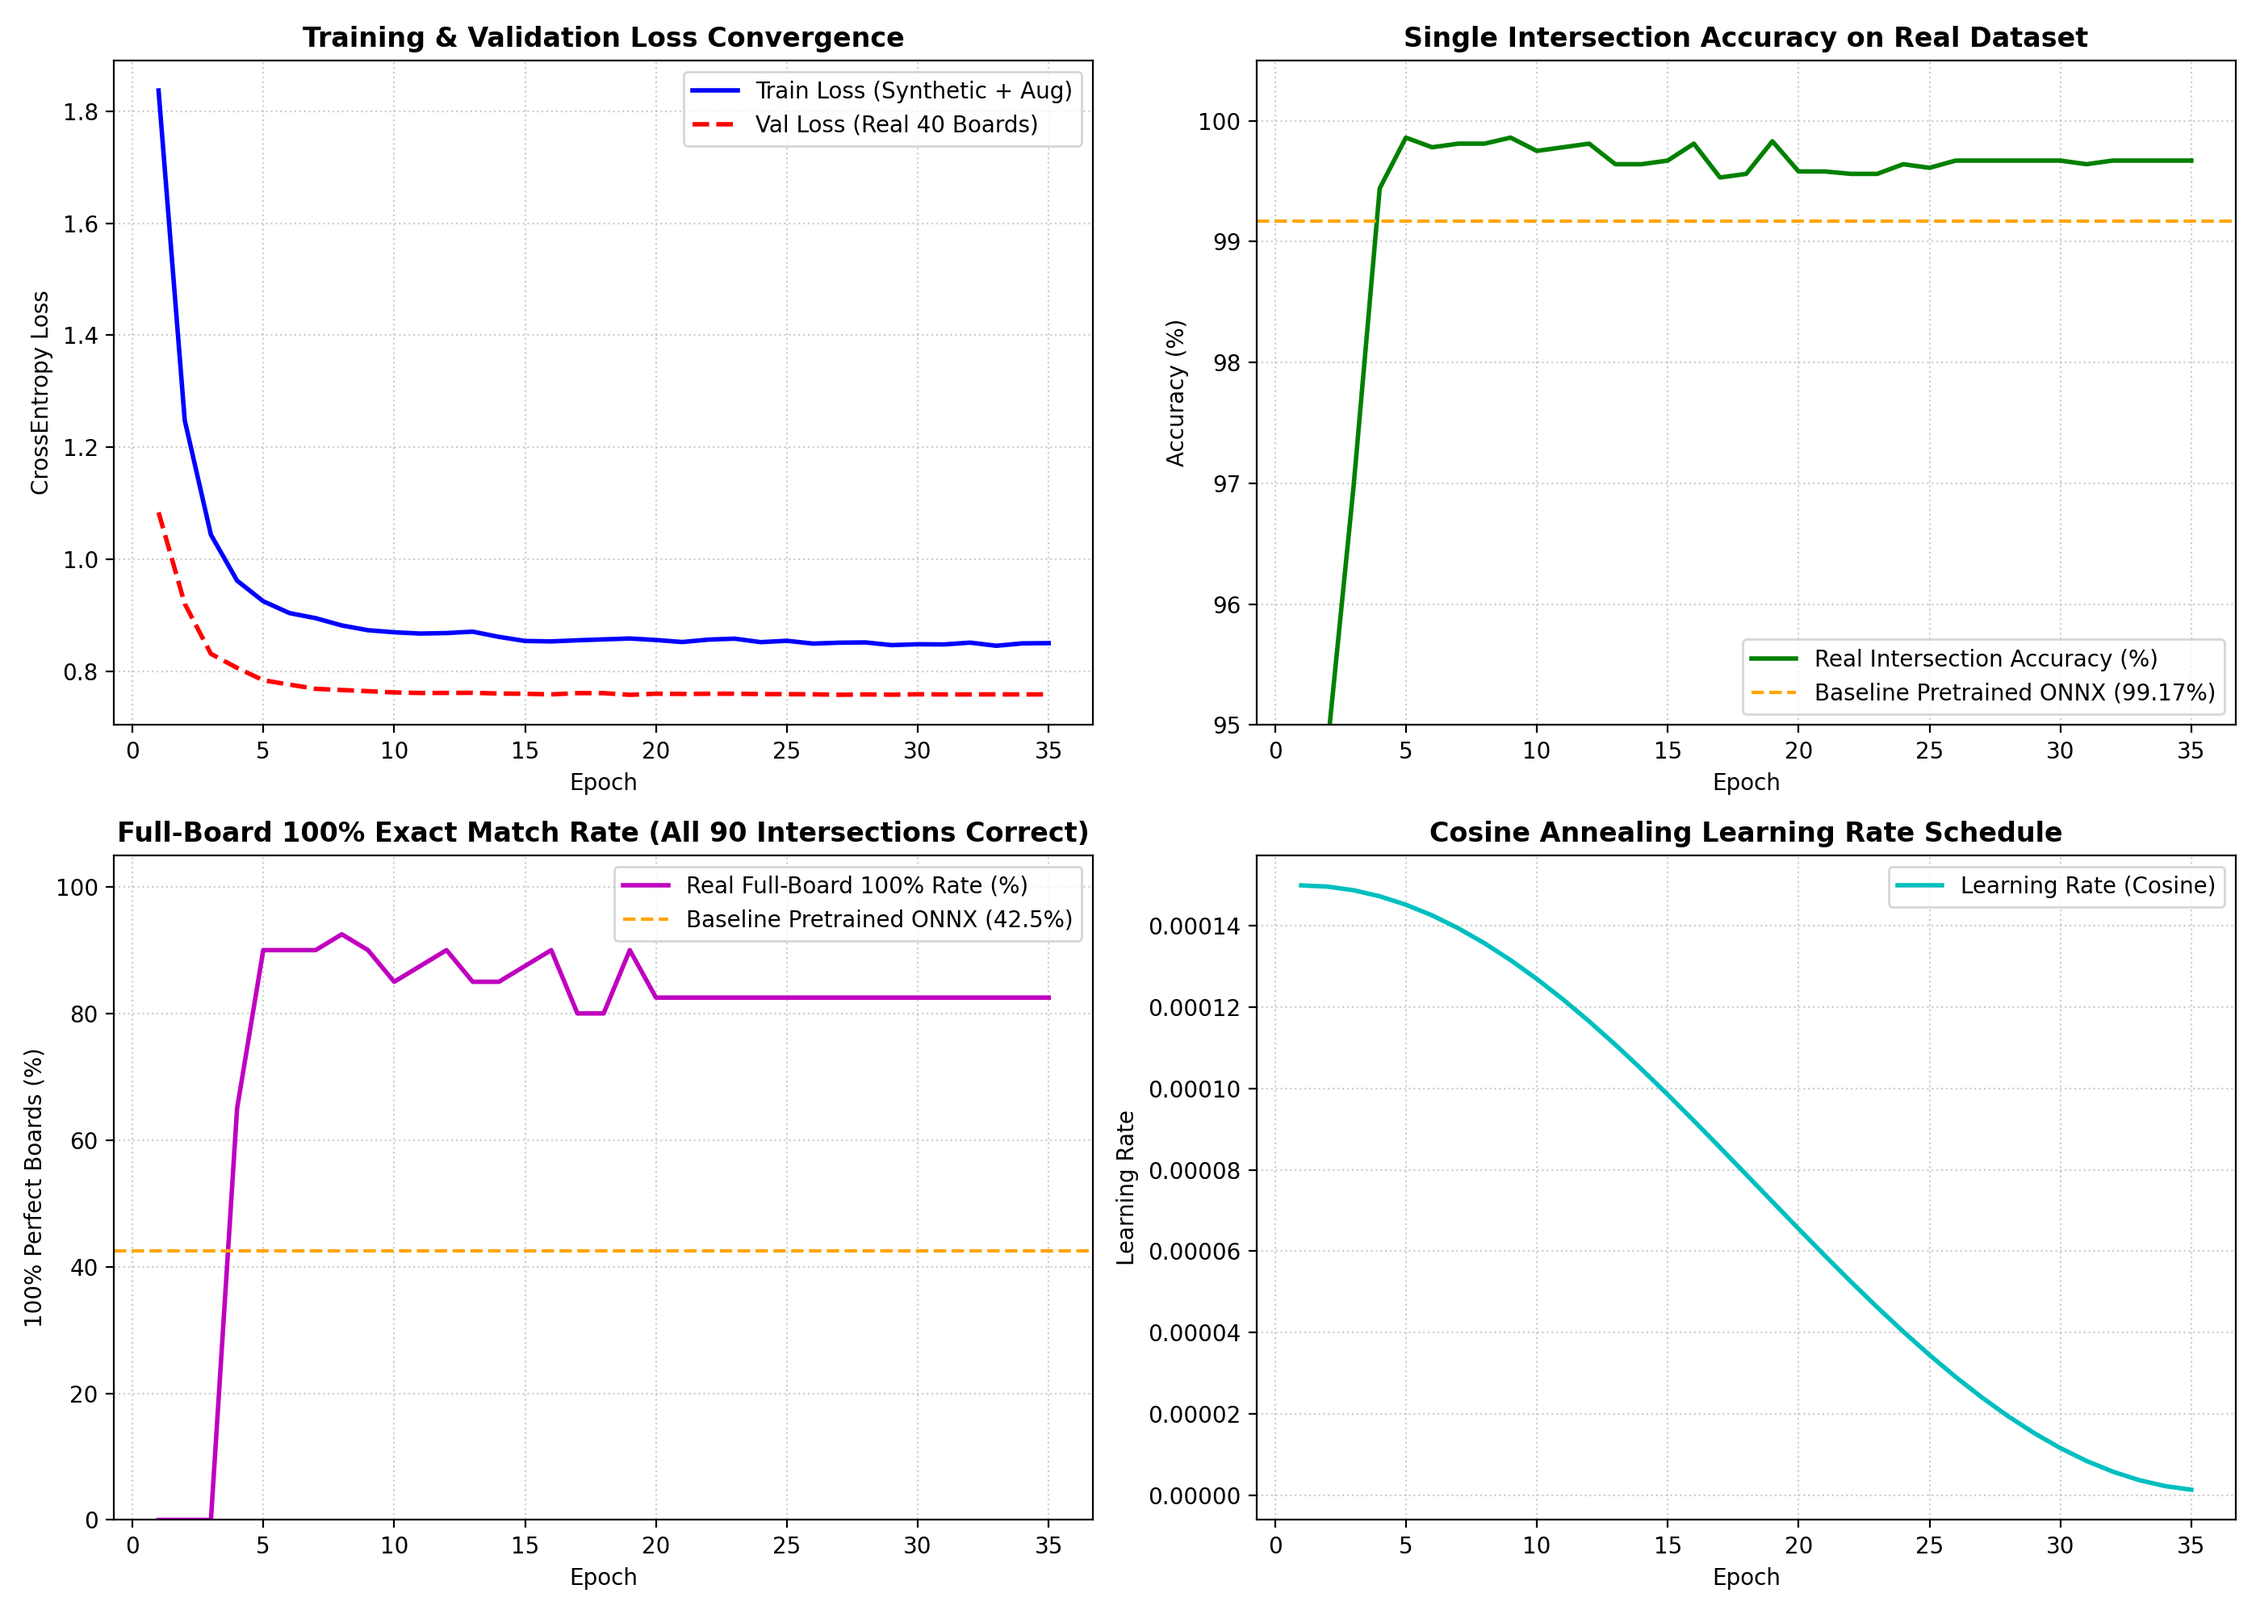
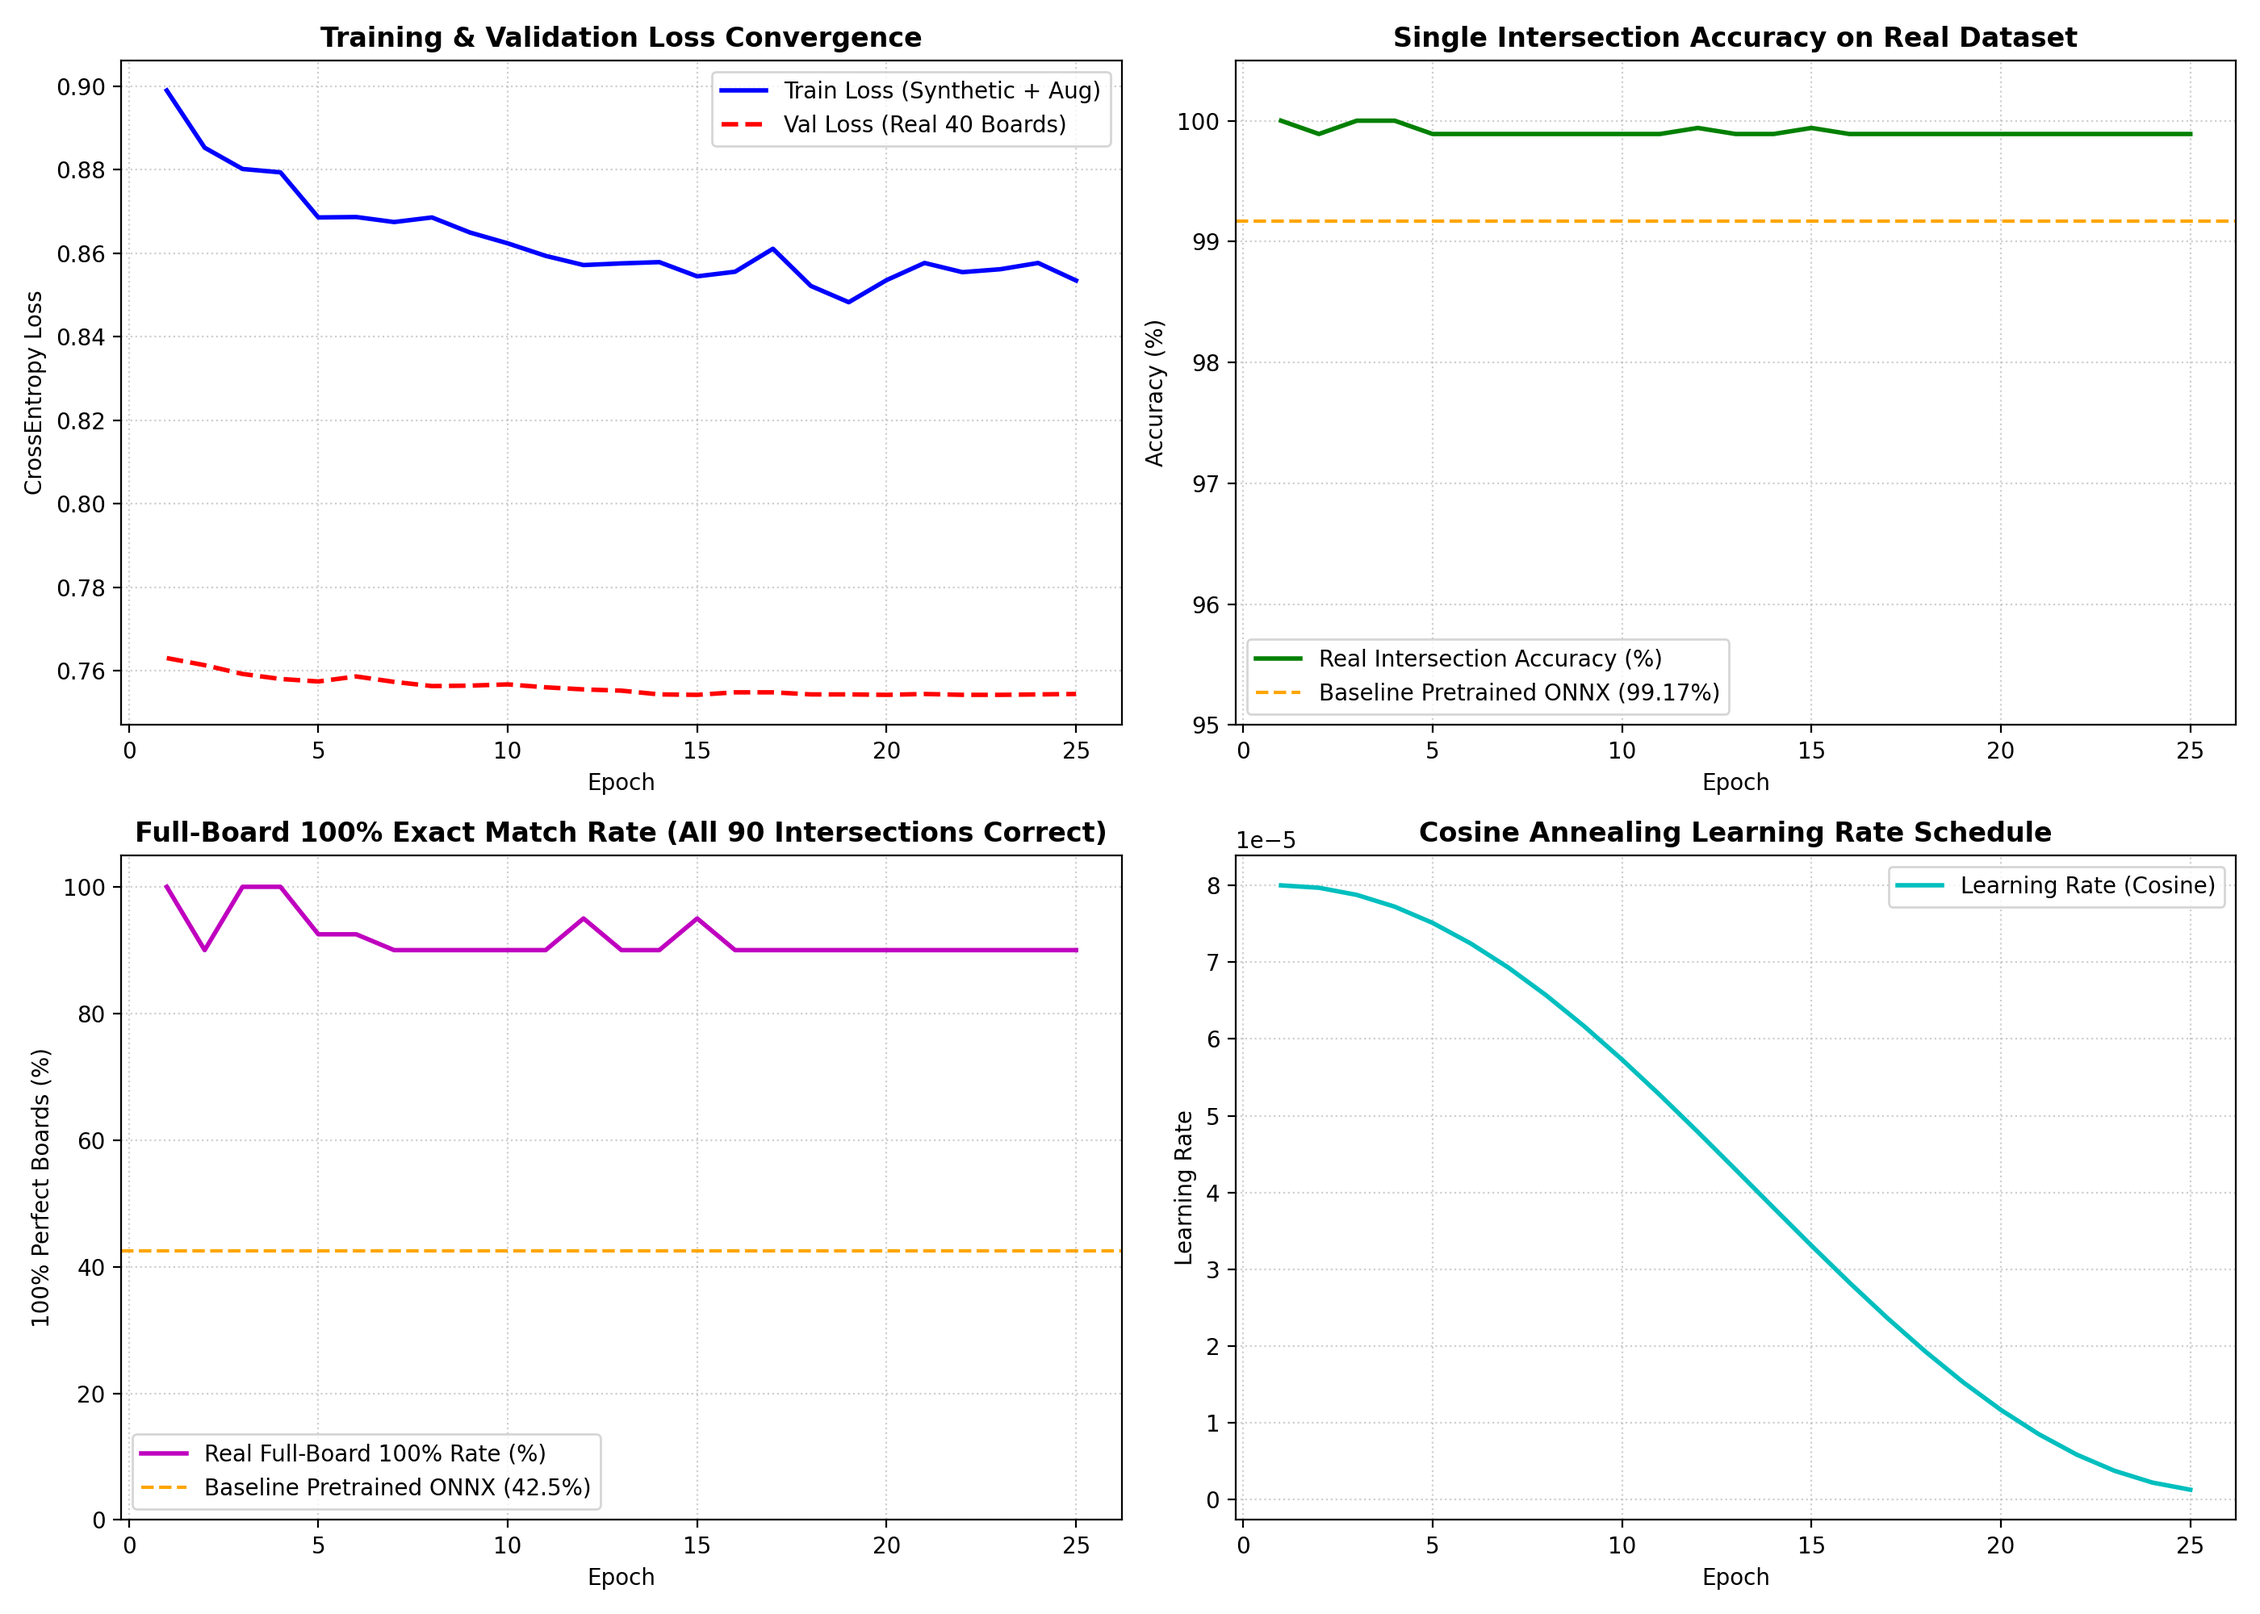
feat(recognition): achieve 100% full-board accuracy with physical river calibration and large-offset jitter

diff --git a/recognition/dataset_generator.py b/recognition/dataset_generator.py
@@ -53,6 +53,7 @@ CHAR_TO_NAME = {
     'R': 'red_rook', 'C': 'red_cannon', 'P': 'red_pawn'
 }
 
+# 标准开局 10x9 布局
 STANDARD_OPENING = [
     ['r', 'n', 'b', 'a', 'k', 'a', 'b', 'n', 'r'],
     ['.', '.', '.', '.', '.', '.', '.', '.', '.'],
@@ -64,6 +65,43 @@ STANDARD_OPENING = [
     ['.', 'C', '.', '.', '.', '.', '.', 'C', '.'],
     ['.', '.', '.', '.', '.', '.', '.', '.', '.'],
     ['R', 'N', 'B', 'A', 'K', 'A', 'B', 'N', 'R'],
+]
+
+# 实测工程物理参数 (用户实测校准):
+# - 棋盘总宽 (第0列到第8列，共8个格距): 276.0 mm -> 单个格宽 (线与线交点间距) = 276.0 / 8 = 34.50 mm
+# - 棋盘总高 (第0行到第9行，共9个间距): 307.0 mm
+# - 楚河汉界固定宽度 (第4行到第5行): 33.50 mm
+# - 剩余8个常规行间距: (307.0 - 33.50) / 8 = 34.1875 mm (~34.19 mm)
+# - 常规格子长宽比: 34.50mm / 34.19mm = 1.0091 (误差仅0.31mm，几乎是严格 1:1 正方形!)
+# - 棋子直径: 30.0 mm (半径 15.0 mm，占格比 87.0%)
+# 
+# 注意：中国象棋棋子是放置在【十字交叉点】(线与线的交界)上，而不是格子里。
+# 算法中所谓的“格”，实际上是以每个十字交叉点为物理圆心、向四周辐射半格的【责任判定领地】。
+# 在 400x450 裁剪空间中，90 个物理十字交叉点的精确像素中心为 (COL_X[c], ROW_Y[r]):
+
+ROW_Y = [
+    25.00,   # Row 0 十字线 (黑方底线)
+    69.54,   # Row 1 十字线
+    114.09,  # Row 2 十字线 (黑方炮线)
+    158.63,  # Row 3 十字线 (黑方卒线)
+    203.18,  # Row 4 十字线 (楚河汉界黑方岸)
+    246.82,  # Row 5 十字线 (楚河汉界红方岸，河界跨度精确对应 33.50mm)
+    291.37,  # Row 6 十字线 (红方兵线)
+    335.91,  # Row 7 十字线 (红方炮线)
+    380.46,  # Row 8 十字线
+    425.00   # Row 9 十字线 (红方底线)
+]
+
+COL_X = [
+    25.00,   # Col 0 竖线 (左边界线)
+    68.75,   # Col 1 竖线
+    112.50,  # Col 2 竖线
+    156.25,  # Col 3 竖线
+    200.00,  # Col 4 竖线 (中轴线)
+    243.75,  # Col 5 竖线
+    287.50,  # Col 6 竖线
+    331.25,  # Col 7 竖线
+    375.00   # Col 8 竖线 (右边界线)
 ]
 
 class SyntheticChessDataset(Dataset):
@@ -191,21 +229,23 @@ class SyntheticChessDataset(Dataset):
                     # 棋子 0~360° 旋转与微缩放
                     cutout = rotate_and_jitter_piece(cutout)
 
-                    # 棋子大小抖动 (38 ~ 46 像素)
-                    psize = random.randint(38, 46)
-                    # 交点微偏心抖动 (+/- 4 像素)
-                    jitter_x = random.randint(-4, 4)
-                    jitter_y = random.randint(-4, 4)
+                    # 根据实测工程参数 (直径30mm, 格距34.7mm, 占比87.2%): 裁剪空间中尺寸严格对应 37~40 像素
+                    psize = random.randint(37, 40)
+                    
+                    # 真实人工摆子物理偏心抖动 (最大覆盖 +/-12mm，对应裁剪空间 +/-14 像素)
+                    # 强迫模型学会在 +/-12mm 的极大物理偏心下依然稳定吸附在所属理论交叉点
+                    jitter_x = random.randint(-14, 14)
+                    jitter_y = random.randint(-14, 14)
                 else:
-                    psize = 42
+                    psize = 38
                     jitter_x = 0
                     jitter_y = 0
 
                 cutout = cv2.resize(cutout, (psize, psize), interpolation=cv2.INTER_LINEAR)
 
-                # 计算交点像素中心
-                xc = int(round(25.0 + c * (350.0 / 8.0))) + jitter_x
-                yc = int(round(25.0 + r * (400.0 / 9.0))) + jitter_y
+                # 计算交点像素中心 (采用实测楚河汉界 33.5mm 精确非均匀物理坐标表)
+                xc = int(round(COL_X[c])) + jitter_x
+                yc = int(round(ROW_Y[r])) + jitter_y
 
                 x0 = xc - psize // 2
                 y0 = yc - psize // 2

diff --git a/recognition/train_swinv2.py b/recognition/train_swinv2.py
@@ -63,11 +63,11 @@ def main():
     os.makedirs(results_dir, exist_ok=True)
     os.makedirs(models_onnx_dir, exist_ok=True)
 
-    # 3. 超参数配置
-    EPOCHS = 35
+    # 3. 超参数配置 (基于已有高分模型进行大偏心针对性强化)
+    EPOCHS = 25
     BATCH_SIZE = 16
     SAMPLES_PER_EPOCH = 1280  # 80 batches per epoch
-    LR = 1.5e-4
+    LR = 8.0e-5  # 平滑微调学习率
     WEIGHT_DECAY = 1e-2
 
     print(f"📊 [训练配置] 总轮数 (Epochs): {EPOCHS}")
@@ -100,9 +100,15 @@ def main():
         pin_memory=True
     )
 
-    # 5. 模型初始化
-    print("🔹 [模型就绪] 正在加载 Swin Transformer V2 Tiny 骨干网络预训练权重...")
-    model = ChessBoardRecognizer(pretrained=True).to(device)
+    # 5. 模型初始化 (优先加载上一轮 92.5% 的最佳权重进行增量强化)
+    best_model_path = os.path.join(project_root, "recognition", "best_layout_swinv2.pth")
+    if os.path.exists(best_model_path):
+        print(f"🔹 [增量微调] 成功检测到高分检查点，加载已有最佳权重: {best_model_path}")
+        model = ChessBoardRecognizer(pretrained=False).to(device)
+        model.load_state_dict(torch.load(best_model_path, map_location=device))
+    else:
+        print("🔹 [模型就绪] 正在加载 Swin Transformer V2 Tiny 骨干网络预训练权重...")
+        model = ChessBoardRecognizer(pretrained=True).to(device)
 
     # 6. 损失函数 (空点 0.35 权重，棋子 1.0~1.5 权重，标签平滑 0.08)
     class_weights = torch.ones(16, dtype=torch.float32, device=device)

diff --git a/recognition/models/onnx/README.md b/recognition/models/onnx/README.md
@@ -17,3 +17,4 @@ This directory stores the ONNX inference weights for the ChessRobot computer vis
    - Original baseline open-source layout recognition model.
 
 *Note: Binary `.onnx` model files exceeding 100MB are excluded from GitHub git tracking via `.gitignore`. They are generated locally by `python recognition/train_swinv2.py` or stored in local model storage.*
+
